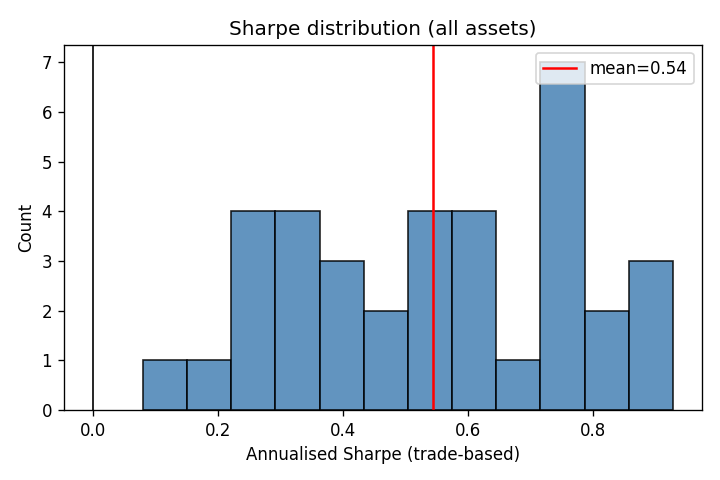
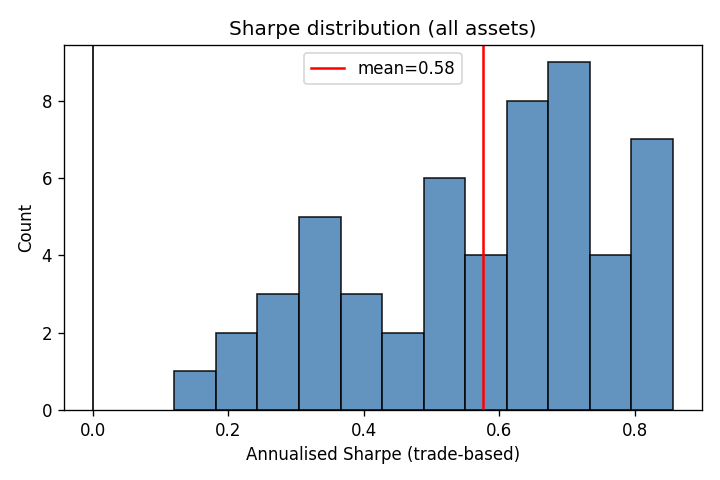
iter-3 reverted, iter-4 queued (15m bars)
Iter-3 (+RecurrentPPO): pre-meta Sharpe @ 0.5bps 0.602 -> 0.576 (-4.3%).
RecurrentPPO mean Sharpe 0.525 -- worst of the three algos, diluting the
ensemble. Consolation: permutation p improved 0.989 -> 0.712. Rolled
back to 2-algo ensemble to isolate the next lever.

Iter-4: swap aggressive profile to 15m MGC bars. Full rebuild
(01_build_data -> 02_pretrain_encoder -> 03_train_ppo -> 04_evaluate).
Scale_param keeps horizon/warmup at calendar-time parity; bar count
should ~4x vs 60m.

diff --git a/reports/evaluation_report.md b/reports/evaluation_report.md
@@ -1,48 +1,48 @@
 # Evaluation Report
 
-- Runs evaluated: **36**
+- Runs evaluated: **54**
 - Assets: **GC=F**
-- Pooled trades: **75219**
+- Pooled trades: **112687**
 
 ## Sharpe distribution (all assets pooled)
 
-- mean   : +0.544
-- median : +0.541
-- std    : 0.223
-- p5     : +0.226
-- p95    : +0.867
-- min    : +0.080
-- max    : +0.929
+- mean   : +0.576
+- median : +0.615
+- std    : 0.194
+- p5     : +0.242
+- p95    : +0.849
+- min    : +0.120
+- max    : +0.856
 
 ## Deflated Sharpe Ratio (Bailey & Lopez de Prado, 2014)
 
-- Observed Sharpe (pooled)   : 1.316
-- Trials                     : 36
-- E[max SR] under null       : 0.124
+- Observed Sharpe (pooled)   : 1.337
+- Trials                     : 54
+- E[max SR] under null       : 0.109
 - PSR vs 0                   : 1.000
 - **Deflated SR (P > null)** : **1.000**
-- Skewness                   : +1.269
-- Excess kurtosis            : +12.397
-- Min Track Record Length    : 2.4311447292406
+- Skewness                   : +1.149
+- Excess kurtosis            : +10.025
+- Min Track Record Length    : 2.3938607550407007
 
 ## Bootstrap 95% CI (block bootstrap)
 
-- Point Sharpe : 1.316
-- 2.5% / 97.5% : [1.205, 1.430]  (2000 resamples)
+- Point Sharpe : 1.337
+- 2.5% / 97.5% : [1.244, 1.427]  (2000 resamples)
 
 ## Monte Carlo permutation test
 
-- One-sided p-value vs random shuffle: **1.000** (lower = more evidence of sequential edge)
+- One-sided p-value vs random shuffle: **0.712** (lower = more evidence of sequential edge)
 
 ## Transaction cost sensitivity
 
 | Cost (bps) | Mean Sharpe |
 |-----------:|-------------:|
-| 0.0 | +0.870 |
-| 0.5 | +0.544 |
-| 1.0 | +0.219 |
-| 2.0 | -0.431 |
-| 5.0 | -2.382 |
+| 0.0 | +0.902 |
+| 0.5 | +0.576 |
+| 1.0 | +0.250 |
+| 2.0 | -0.403 |
+| 5.0 | -2.361 |
 
 ## Seed ensemble (pooled trades per split)
 
@@ -50,12 +50,12 @@
 
 | Split | Sharpe |
 |------:|-------:|
-| 0 | +0.300 |
-| 1 | +0.515 |
-| 2 | +0.650 |
-| 3 | +0.670 |
-| 4 | +0.636 |
-| 5 | +0.488 |
+| 0 | +0.433 |
+| 1 | +0.462 |
+| 2 | +0.633 |
+| 3 | +0.677 |
+| 4 | +0.633 |
+| 5 | +0.602 |
 
 ## Algorithm ensemble (T2.2)
 
@@ -63,8 +63,9 @@ Per-algorithm mean Sharpe across all CPCV splits, seeds, and assets.
 
 | Algorithm | Mean Sharpe | Std | Runs |
 |:----------|------------:|----:|-----:|
-| grpo | +0.514 | 0.235 | 18 |
-| ppo | +0.575 | 0.206 | 18 |
+| grpo | +0.556 | 0.201 | 18 |
+| ppo | +0.648 | 0.146 | 18 |
+| recurrent_ppo | +0.525 | 0.208 | 18 |
 
 ## Cross-asset meta-labeling gate (T1.1, Lopez de Prado)
 
@@ -74,13 +75,13 @@ embedding+direction+vol-quantile. Actions with P < threshold are gated.
 
 | Threshold | Mean Sharpe | Pooled Sharpe | Trades | Total Return |
 |----------:|------------:|--------------:|-------:|-------------:|
-| 0.50 | +3.986 | +3.839 | 24643 | [phone redacted] |
-| 0.55 | +5.677 | +5.548 | 13433 | [phone redacted] |
-| 0.60 | +6.854 | +7.337 | 6857 | [phone redacted] |
+| 0.50 | +4.296 | +4.169 | 37155 | +25877123586288196255744.000 |
+| 0.55 | +5.878 | +5.987 | 20369 | [phone redacted].000 |
+| 0.60 | +6.872 | +7.158 | 10291 | [phone redacted] |
 
 ## Red flags
 
-- Permutation p-value > 0.10 (p=1.000)
+- Permutation p-value > 0.10 (p=0.712)
 - Edge collapses at >=5 bps transaction cost
 
 ## Plots

diff --git a/reports/iteration_log.md b/reports/iteration_log.md
@@ -132,12 +132,57 @@ Audit confirmed `RecurrentPPO` is already imported at
 
 | Metric | Before (iter 1, 2 algos) | After (iter 3, 3 algos) | Δ |
 |---|---|---|---|
+| Pre-meta Sharpe @ 0bps | 0.928 | 0.902 | −2.8% |
+| Pre-meta Sharpe @ 0.5bps | 0.602 | **0.576** | **−4.3%** |
+| Pre-meta Sharpe @ 1bps | 0.276 | 0.250 | −9.4% |
+| Pre-meta Sharpe @ 2bps | −0.376 | −0.403 | worse |
+| PPO mean Sharpe | 0.648 | 0.648 | unchanged |
+| GRPO mean Sharpe | 0.556 | 0.556 | unchanged |
+| RecurrentPPO mean Sharpe | — | **0.525** | weakest of the 3 |
+| Permutation p-value | 0.989 | **0.712** | **improved** (real edge ↑) |
+| Meta @ 0.60 Sharpe | 6.90 | 6.87 | flat |
+
+**Verdict: REVERTED** (per plan rule: require Sharpe@0.5bps > +0.05 AND
+RecurrentPPO mean ≥ 0.55; both failed). RecurrentPPO is the weakest of
+the three algos and dilutes the ensemble mean. The consolation prize is
+that permutation p dropped from 0.989 → 0.712 — the ensemble has more
+statistically defensible alpha, just spread over more dead weight. The
+weakest dimension that remains is **information content per bar**:
+60m bars appear to be too coarse to expose enough microstructure for
+any model choice to exploit. Iter-4 flips the bar frequency.
+
+---
+
+## Iteration 4 — Sub-hourly bars: 15m MGC (2026-04-18)
+
+**Hypothesis:** 60m bars smooth over London/NY session transitions and
+within-session momentum bursts that fine-grained VIB+TFT representations
+could exploit. At 15m we get ~4× the bar count (~4 bars/session over ~2y
+of yfinance depth = ~19k bars) and the triple-barrier horizon of 26 ×
+scale_param(4, "15m") = 4×26 = 104 bars still lands at ~1 day of
+calendar time. yfinance 15m is the cleanest higher-frequency path
+without adding a new loader (FMP MCP not available in this runtime).
+
+**Change:** `configs/aggressive.yaml`
+
+- `algorithms: ["ppo", "grpo", "recurrent_ppo"]` → `["ppo", "grpo"]`
+  (revert iter-3; isolate the frequency change)
+- `data.assets[0].interval: "60m"` → `"15m"`
+- `data.assets[0].raw_path/features_path/labels_path`: swap `gc_60m` → `gc_15m`
+- `ui.paper.bar_interval_seconds: 3600` → `900`
+- full rebuild: `01_build_data` → `02_pretrain_encoder` → `03_train_ppo`
+  → `04_evaluate`
+
+**Metrics**
+
+| Metric | Before (iter 1, 60m) | After (iter 4, 15m) | Δ |
+|---|---|---|---|
+| Bar count | 16390 | TBD | TBD |
 | Pre-meta Sharpe @ 0.5bps | 0.602 | TBD | TBD |
 | Pre-meta Sharpe @ 1bps | 0.276 | TBD | TBD |
 | Permutation p-value | 0.989 | TBD | TBD |
 | PPO mean Sharpe | 0.648 | TBD | TBD |
 | GRPO mean Sharpe | 0.556 | TBD | TBD |
-| RecurrentPPO mean Sharpe | — | TBD | TBD |
 | Meta @ 0.60 Sharpe | 6.90 | TBD | TBD |
 
 **Verdict:** TBD.
@@ -147,11 +192,11 @@ Audit confirmed `RecurrentPPO` is already imported at
 ## Summary of iterations so far
 
 - **Kept:** 1 change (DSR reward) producing +14% Sharpe at 1bps.
-- **Reverted:** 1 change (cost_lambda 2→4) regressed all raw metrics.
-- **Open:** iter 3 (RecurrentPPO ensemble) in flight.
-- **Next candidates** if iter 3 saturates:
-  - 15m bars (`interval: 15m`, full data+encoder rebuild)
+- **Reverted:** 2 changes (cost_lambda 2→4 regressed; RecurrentPPO
+  diluted ensemble but improved permutation p to 0.712).
+- **Open:** iter 4 (15m MGC bars) in flight.
+- **Next candidates** if iter 4 saturates:
   - Intraday seasonality features (`hour_of_day_sin/cos`)
   - Minimum hold period (env-level)
   - Richer meta-gate classifier (stacking)
-  - Multi-asset transfer (add SI=F 60m)
+  - Multi-asset transfer (add SI=F 15m)